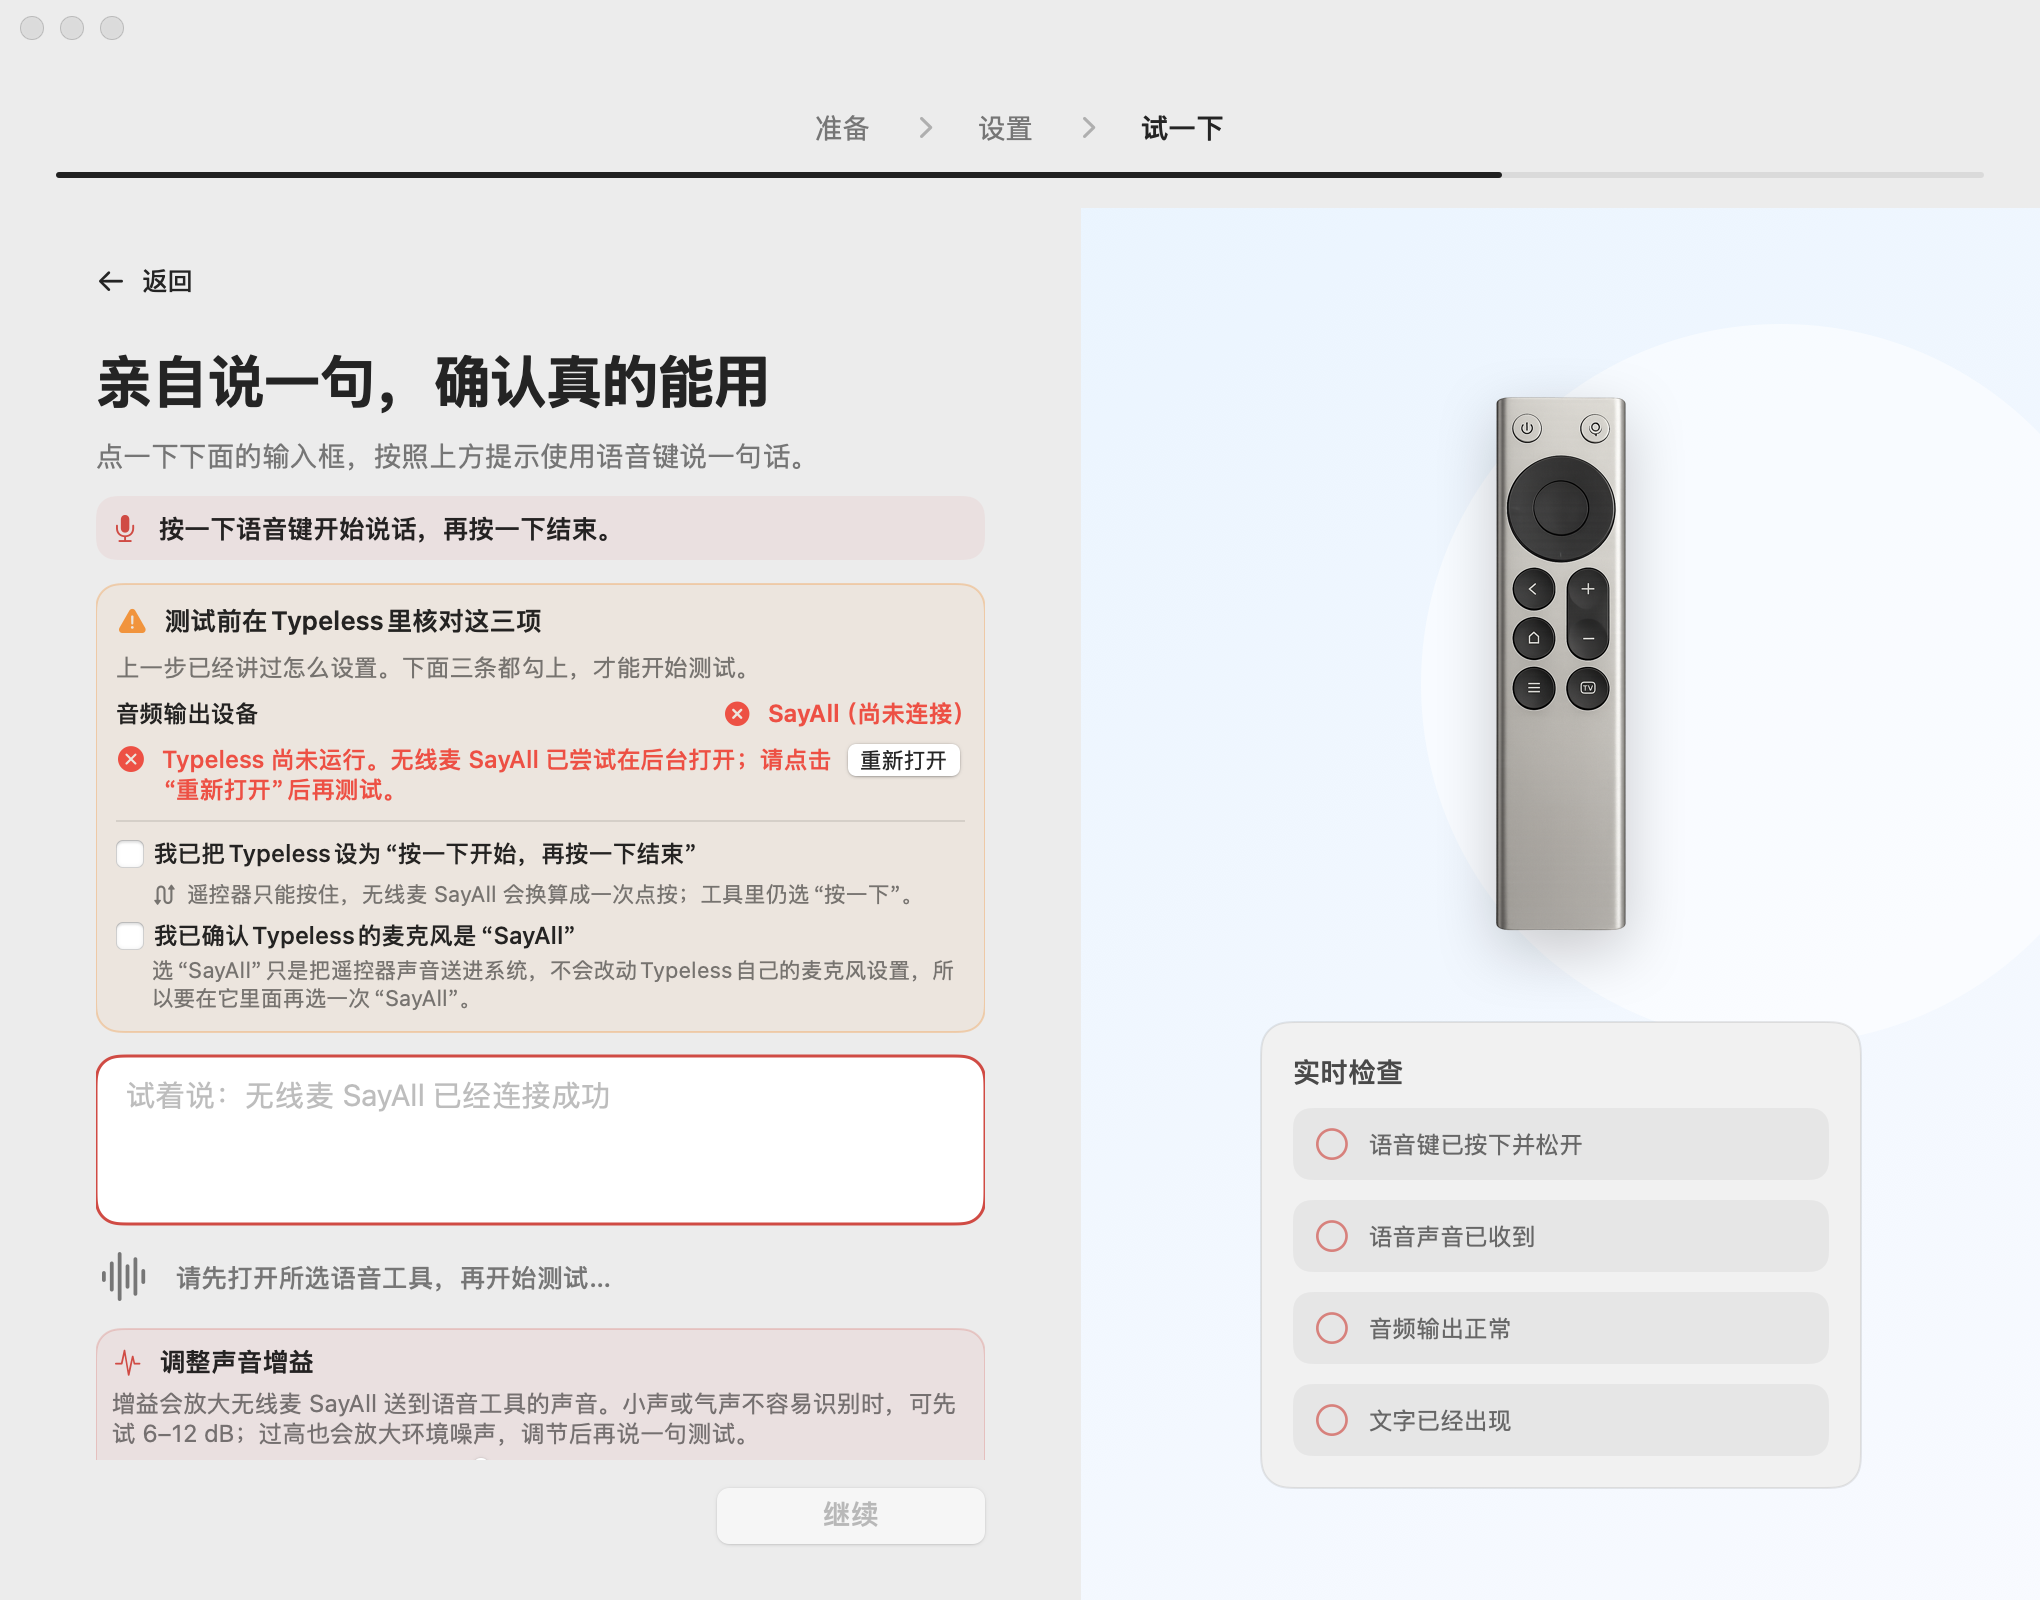
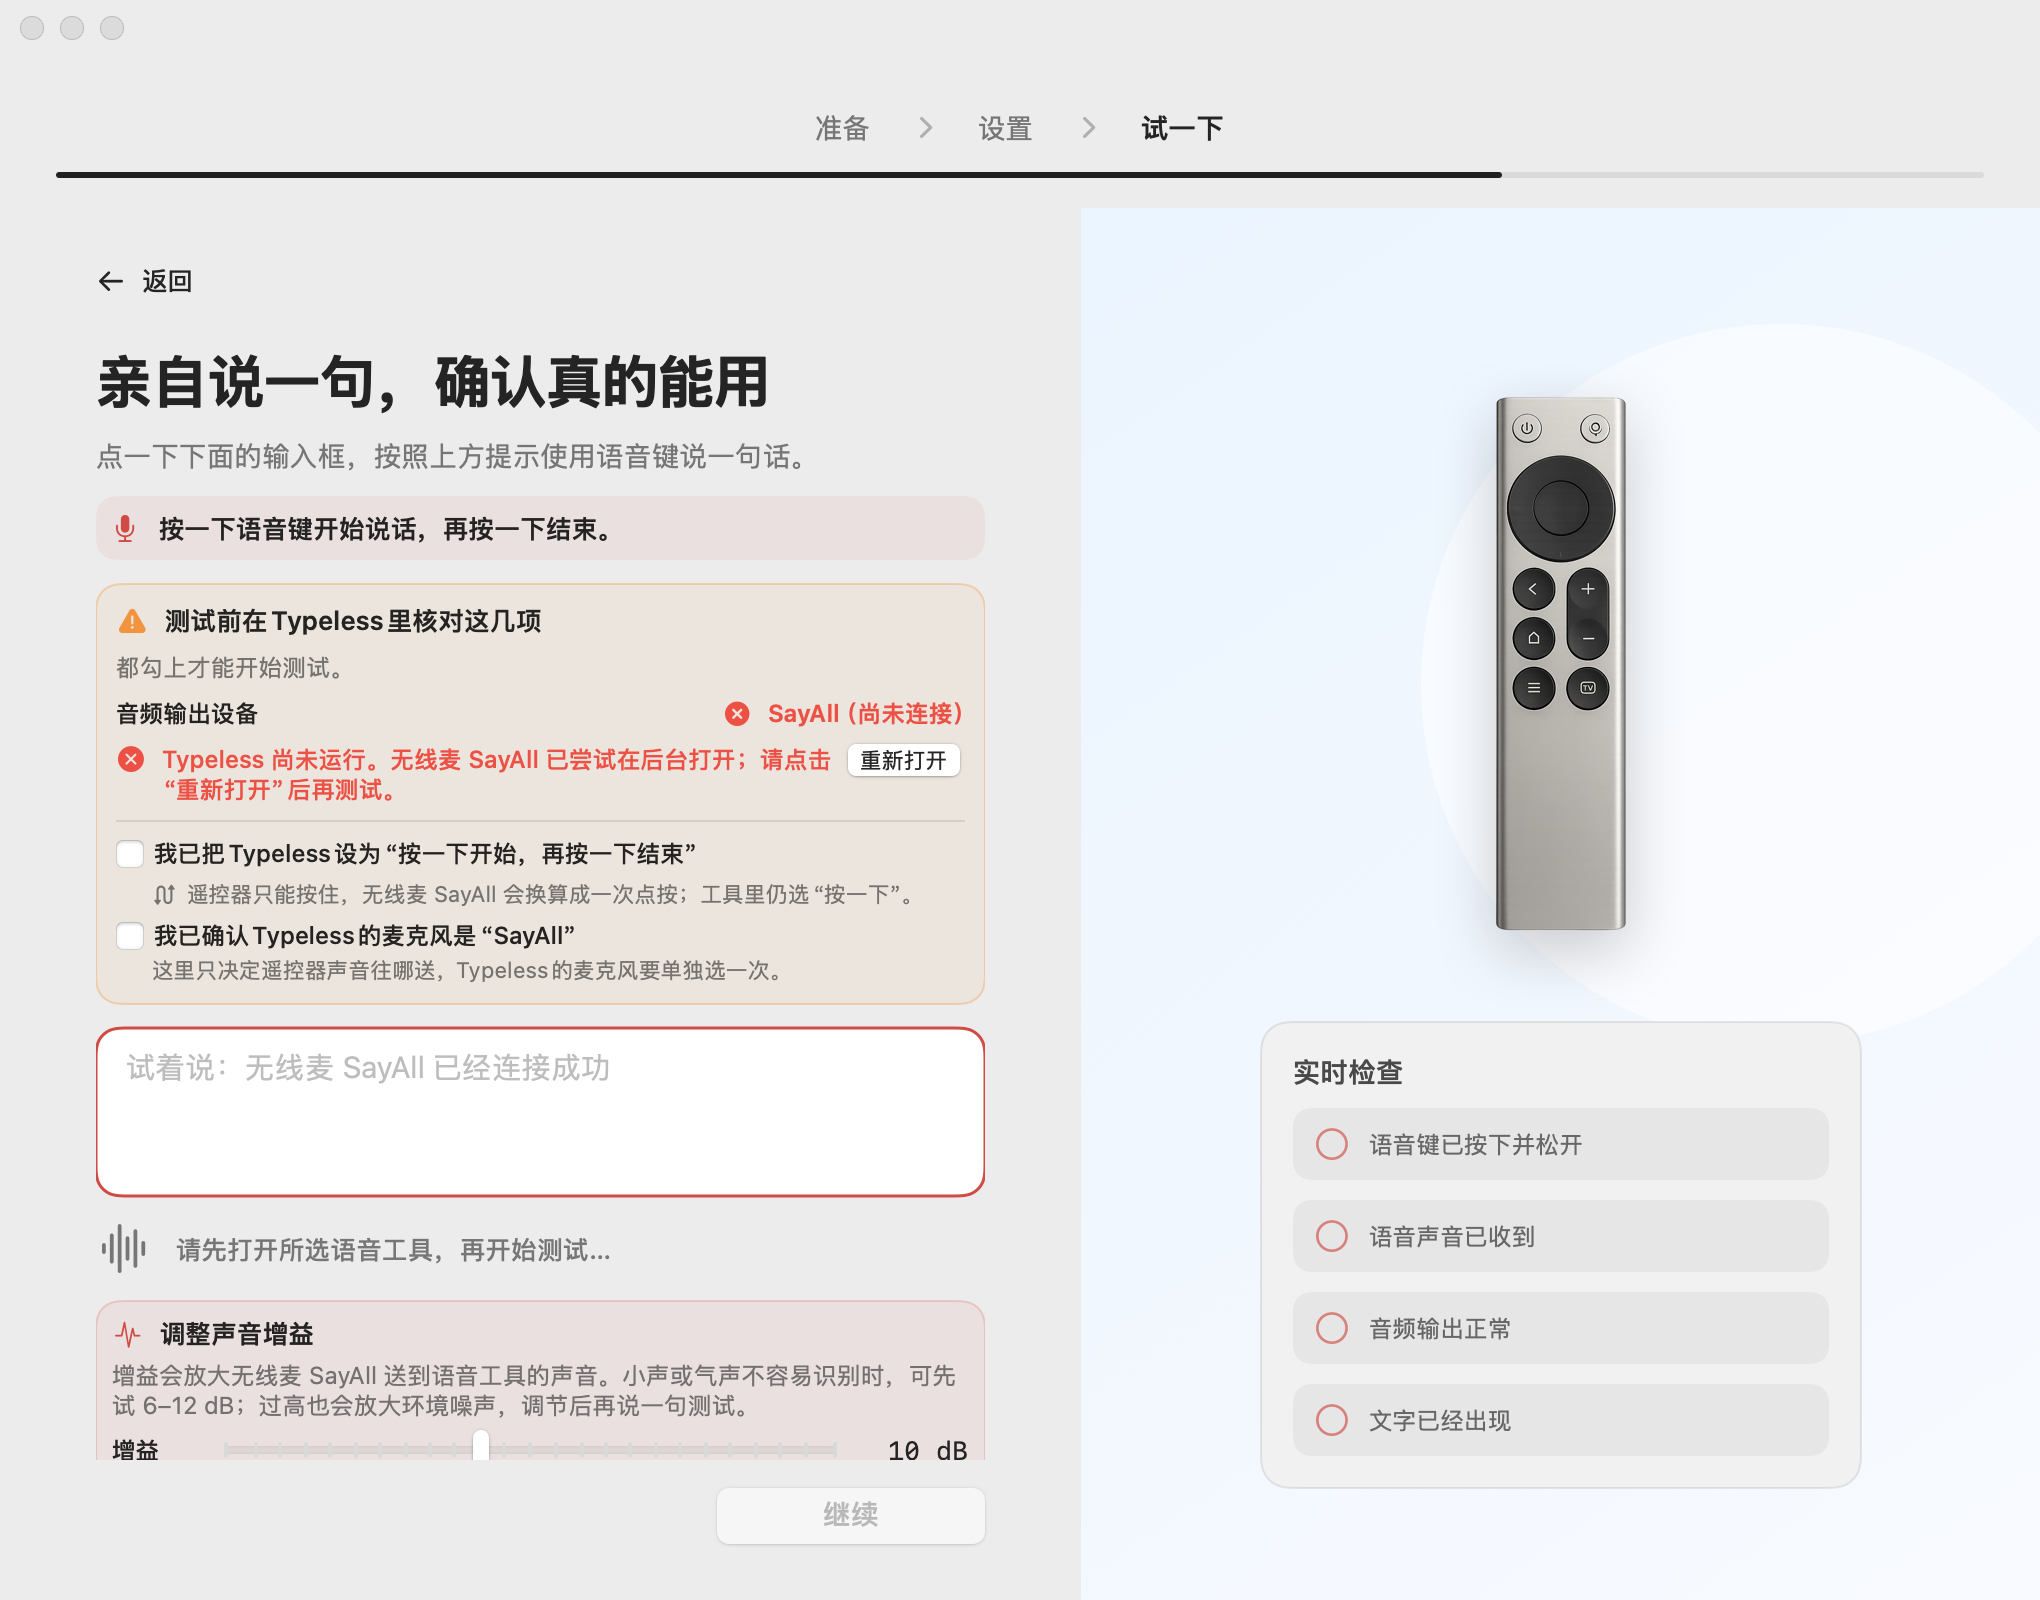
fix(onboarding): tighten the voice test card copy and drop the fixed count
The first pass at this card was too wordy, and one of its sentences was
also wrong.

The detail line said "the previous step covered the setup. Check all three
to start." Only Doubao has the global-activation checkbox; WeType,
Typeless and Vokie show two, so "three" contradicted the card on most
tools, and the title's "check these three" had the same problem. Both now
avoid counting: the title says "check these in %@ before testing" and the
detail says "check every box to start." The number of rows follows the
capability field and nothing else.

The rest of the first sentence ("the previous step covered the setup")
carried no information at the point of use and is gone.

The microphone hint was three clauses that named the device twice and
referred to the app as "in it". Compressed to one line: this setting only
decides where the remote audio goes, and the app's own microphone is a
separate choice. It now takes one argument instead of three.

Side effect worth recording: with the copy shorter, the state where the
voice app is not running - two red runtime lines plus the bridged-gesture
note - now fits inside the 1020x772 viewport instead of pushing the gain
card below the fold. The manifest note claiming it needed scrolling is
removed, and the screenshots are regenerated against the new copy.

Changed region(s): [[0.0309, 0.75, 0.4632, 0.9062], [0.0618, 0.5938, 0.4941, 0.6875], [0.0618, 0.4062, 0.3706, 0.4375]]

diff --git a/Tests/RemoteMicTests/OnboardingFlowTests.swift b/Tests/RemoteMicTests/OnboardingFlowTests.swift
@@ -1474,6 +1474,48 @@ struct OnboardingFlowTests {
         #expect(english.contains("\"onboarding.voice_test.microphone_confirmation.detail\""))
     }
 
+    @Test func voiceTestConfigurationCopyDoesNotPromiseAFixedNumberOfChecks() throws {
+        let root = URL(fileURLWithPath: #filePath)
+            .deletingLastPathComponent()
+            .deletingLastPathComponent()
+            .deletingLastPathComponent()
+        let chinese = try String(
+            contentsOf: root.appendingPathComponent("Resources/zh-Hans.lproj/Localizable.strings"),
+            encoding: .utf8
+        )
+        let english = try String(
+            contentsOf: root.appendingPathComponent("Resources/en.lproj/Localizable.strings"),
+            encoding: .utf8
+        )
+        // 勾选条数由能力字段决定：豆包三条，微信 / Typeless / Vokie 只有两条。
+        // 文案里写死数量会在多数工具上自相矛盾，所以标题和说明都不许出现计数。
+        // 只查这两个键：别的页面写「三项权限」是准确的事实描述，不该被这条规则波及。
+        for (strings, banned) in [
+            (chinese, ["核对这三项", "三条都勾上", "这三条"]),
+            (english, ["these three", "all three", "the three"]),
+        ] {
+            for key in [
+                "onboarding.voice_test.configuration.title",
+                "onboarding.voice_test.configuration.detail",
+            ] {
+                let line = try #require(strings.split(separator: "\n").first {
+                    $0.hasPrefix("\"\(key)\"")
+                })
+                for fragment in banned {
+                    #expect(!line.lowercased().contains(fragment.lowercased()))
+                }
+            }
+        }
+
+        // 麦克风小字只谈「这里决定声音往哪送」，设备名由上方勾选负责，参数只留工具名。
+        for strings in [chinese, english] {
+            let line = try #require(strings.split(separator: "\n").first {
+                $0.hasPrefix("\"onboarding.voice_test.microphone_confirmation.detail\"")
+            })
+            #expect(line.components(separatedBy: "%@").count - 1 == 1)
+        }
+    }
+
     @Test func selectingVoiceToolDoesNotChangeInputSourceOrReorderCards() throws {
         let root = URL(fileURLWithPath: #filePath)
             .deletingLastPathComponent()

diff --git a/Sources/RemoteMic/OnboardingView.swift b/Sources/RemoteMic/OnboardingView.swift
@@ -3346,16 +3346,13 @@ struct OnboardingView: View {
     }
 
     /// 麦克风勾选下方的小字：说明 SayAll 改不了工具自己的麦克风设置。
+    ///
+    /// 压缩成一行的代价是去掉了重复出现的设备名——勾选那一行刚说过一次，小字再说两遍
+    /// 只会让人跳读。真正的信息只有一句：这里是「声音往哪送」，不是「工具用哪个麦克风」。
     private var microphoneIsolationHintText: String {
-        let deviceName = selectedAudioDevice?.name
-            ?? localization.text("onboarding.audio.select_required")
-        return LocalizedMessage(
+        LocalizedMessage(
             "onboarding.voice_test.microphone_confirmation.detail",
-            arguments: [
-                deviceName,
-                localization.text(settings.onboardingVoiceTool.titleKey),
-                deviceName,
-            ]
+            arguments: [localization.text(settings.onboardingVoiceTool.titleKey)]
         ).text(using: localization)
     }
 

diff --git a/Testing/FirstRunOnboarding.md b/Testing/FirstRunOnboarding.md
@@ -142,17 +142,29 @@
 
 死键处理（Sources 里 0 引用，逐条 `git grep` 确认）：删除 `onboarding.voice_test.configuration.binding_expected`、`onboarding.voice_test.microphone_confirmation.title`、`onboarding.voice_test.other_detail`；`onboarding.voice_test.microphone_confirmation.detail` 从死键改为渲染在麦克风勾选下方。
 
-版式：核对卡外层间距 4 → 8、内边距 8 → 10、三条勾选包成 6pt 一组；语音测试页外层间距 8 → 12。取 12 而不是更大：核对卡里的「语音工具尚未运行」行和桥接提示行都只在异常态出现，叠加后会多出两行，间距再大就把增益卡顶到首屏之外。
+版式：核对卡外层间距 4 → 8、内边距 8 → 10、勾选包成 6pt 一组；语音测试页外层间距 8 → 12。
+
+### 文案二次压缩（同日）
+
+第一版说明写的是「上一步已经讲过怎么设置。下面三条都勾上，才能开始测试。」，麦克风小字写的是「选“SayAll”只是把遥控器声音送进系统，不会改动豆包输入法自己的麦克风设置，所以要在它里面再选一次“SayAll”。」两句都太长，而且第一句带出两个错：
+
+- **「三条」是错的。** 只有豆包有「全局唤起语音」那条勾选，微信输入法 / Typeless / Vokie 实际只有两条。标题「核对这三项」同样写死了三。现在标题改成「测试前在 %@ 里核对这几项」、说明改成「都勾上才能开始测试。」，**不再出现任何计数**，勾选条数由能力字段决定。
+- **「上一步已经讲过怎么设置」没有信息量。** 用户刚从上一步过来，这句只是交代向导自己的结构，删掉。
+
+麦克风小字压成一行「这里只决定遥控器声音往哪送，%@的麦克风要单独选一次。」：保留「这里是声音往哪送、不是工具用哪个麦克风」这个唯一有用的信息，去掉重复两次的设备名（勾选那一行刚说过）和「在它里面」这种模糊指代。参数个数从 3 个减到 1 个。
+
+压缩的副作用是好的：Typeless 未运行的异常态原先会多出两行红色运行时状态加一行桥接说明，把增益卡顶出 1020 × 772 的首屏；文字收紧后，异常态也完整放下了，`manifest.json` 里原先那条「需要滚动」的说明已随之删除。
 
 ### 自动化与构建
 
 - `swift build --disable-keychain --disable-sandbox` 公开构建通过。
-- `swift test --disable-keychain --disable-sandbox --filter OnboardingFlowTests`：85 项通过，含本次新增五条：
+- `swift test --disable-keychain --disable-sandbox --filter OnboardingFlowTests`：86 项通过，含本次新增六条：
   - `globalVoiceSupportIsUnknownForToolsWeNeverObserved()`：豆包 `true`，微信 / Typeless / Vokie `false`，其他与未选择为 `nil`。
   - `holdOnlyRemoteAndToggleOnlyToolBridgeThroughFunctionTap()`：Typeless + Siri Remote 解析成按一下并开启 `fnTapModeEnabled`；豆包 + Siri Remote 仍是按住、不开换算。
   - `voiceTestGestureCheckboxFollowsTheResolvedGesture()`：勾选项走 `resolvedVoiceGestureMode`，两条键都在，旧键不再被引用，桥接提示条件存在。
   - `voiceTestFailureHintOnlyMentionsGlobalActivationWhenTheToolHasIt()`：失败提示分两条键，中文里那句写死「全局唤起」的旧文案已不存在。
   - `voiceTestDropsKeysNoViewEverRendered()`：三个死键在两份 strings 里都已删除，`microphone_confirmation.detail` 保留。
+  - `voiceTestConfigurationCopyDoesNotPromiseAFixedNumberOfChecks()`：标题与说明里不出现固定计数，麦克风小字只带一个占位符（只查这两个键，「三项权限」这类准确描述不受影响）。
 - `swift test --disable-keychain --disable-sandbox --filter LocalizationTests`：8 项通过，中英文 key 集合与占位符个数一致。
 
 ### 离屏渲染证据
@@ -161,23 +173,23 @@
 
 | 文件 | 组合 / 状态 | SHA-256 |
 | --- | --- | --- |
[6 lines of base64/hex data omitted]
 
 旧驱动设备名（`MiRemoteV 2ch`）未单独出图：设 `REMOTE_MIC_ONBOARDING_SCREENSHOT_AUDIO_NAME=legacy` 可复现，设备行、麦克风勾选和说明小字都会跟着显示真实设备名。
 
-渲染环境没有真实的语音工具进程，三条勾选都是未勾选态；「三条都勾选才允许继续」的逻辑由 `OnboardingFlowPolicy` 的既有用例覆盖，不由截图证明。
+渲染环境没有真实的语音工具进程，勾选都是未勾选态；「全部勾选才允许继续」的逻辑由 `OnboardingFlowPolicy` 的既有用例覆盖，不由截图证明。
 
 ### 生产页面检查
 
-1. 用豆包进入语音测试页，确认标题是「测试前在豆包输入法里核对这三项」，不再出现「必须一致」。
+1. 用豆包进入语音测试页，确认标题是「测试前在豆包输入法里核对这几项」、说明是「都勾上才能开始测试。」，不再出现「必须一致」，也不再出现「三条」「三项」这类计数。
 2. 确认第一行显示「音频输出设备」，右侧值是系统里真实的设备名（新装是 `SayAll`，旧驱动是 `MiRemoteV 2ch`），两者不再自相矛盾。
 3. 确认第一条勾选写的是「我已把豆包输入法设为“按住说话”」，与上方语音键提示条一致。
 4. 换 Typeless 并把控制方式设为实体遥控器：确认上方提示条变成「按一下语音键开始说话，再按一下结束」，第一条勾选同步变成「按一下开始，再按一下结束」，且下方多出一行带双向箭头的小字解释长按换算。
-5. 换成微信输入法 / Typeless / Vokie / 其他：确认没有「全局唤起语音」那条勾选，只有两条。
+5. 换成微信输入法 / Typeless / Vokie / 其他：确认没有「全局唤起语音」那条勾选（只剩两条），而标题和说明里的措辞不变、仍然读得通——这是「不写数量」的意义。
 6. 用豆包：确认第二条勾选是「我已确认豆包输入法开启了“全局唤起语音”」，点开豆包确实有这个开关。
-7. 三条勾选下方的小字确认在：麦克风那条要说清「选 SayAll 只负责输出，不会改工具自己的麦克风」。
+7. 麦克风勾选下方的小字确认在且只有一行：「这里只决定遥控器声音往哪送，%@的麦克风要单独选一次。」
 8. 拨掉语音工具进程让它报「尚未运行」，再让某次测试收不到文字，确认红色失败提示里：豆包说「全局唤起语音」，其余工具说的是「正在运行并已开启语音输入」，不提全局唤起。
 9. 中英文在 1020 × 772 下逐条检查，增益滑杆和数值、底部「继续」都完整可见。
 
@@ -188,6 +200,8 @@
 - 只能按住的控制方式配只支持按一下的工具时，页面没有解释换算，用户会以为自己设错了；缺这行小字判定失败。
 - 无全局唤起的工具上出现「全局唤起语音」勾选，或失败提示让它去找这个开关，判定失败。
 - 标签写 `SayAll`、值是 `MiRemoteV 2ch`（或反过来），判定失败。
+- 标题或说明里出现「三条」「三项」这类固定数量，导致只有两条勾选的工具上读起来对不上，判定失败。
+- 麦克风小字再次出现重复的设备名（勾选那一行已经说过）或「在它里面」这类无指向的指代，判定失败。
 - 截图只能证明文案、布局与条件分支，不能代替真机上的语音文字上屏、第三方工具设置核对和跨工具真实链路。
 
 
